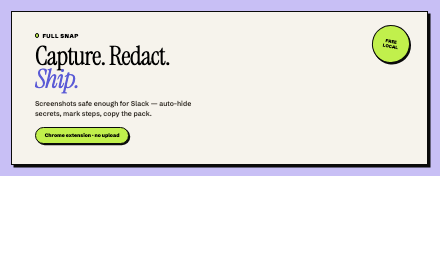
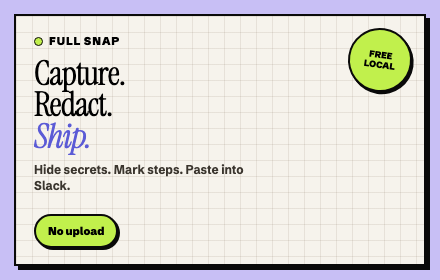
Fix small promo and OG assets with native-size layouts.
Stop scaling marquees into 440x280 (empty whitespace). Dedicated promo-small and OG frames fill the canvas.

Changed region(s): [[0.0, 0.0286, 1.0, 1.0]]

diff --git a/store-assets/src/promo-small.html b/store-assets/src/promo-small.html
@@ -1,0 +1,46 @@
+<!doctype html>
+<html><head><meta charset="utf-8">
+<link href="https://fonts.googleapis.com/css2?family=Instrument+Serif:ital@0;1&family=Schibsted+Grotesk:wght@700;800;900&display=swap" rel="stylesheet">
+<style>
+  *{margin:0;padding:0;box-sizing:border-box}
+  html,body{width:440px;height:280px;overflow:hidden;font-family:"Schibsted Grotesk",system-ui,sans-serif}
+  .wrap{
+    width:440px;height:280px;background:#c8bff5;padding:14px;
+    display:flex;align-items:stretch;justify-content:center;
+  }
+  .card{
+    flex:1;background:#f6f3ec;
+    background-image:
+      linear-gradient(to right,rgba(120,100,80,.12) 1px,transparent 1px),
+      linear-gradient(to bottom,rgba(120,100,80,.12) 1px,transparent 1px);
+    background-size:16px 16px;
+    border:2px solid #0a0a0a;box-shadow:4px 4px 0 #0a0a0a;
+    padding:18px 18px 16px;position:relative;display:flex;flex-direction:column;
+  }
+  .logo{font-size:11px;font-weight:900;letter-spacing:.08em;display:flex;align-items:center;gap:6px;margin-bottom:10px}
+  .logo i{width:9px;height:9px;border-radius:50%;background:#c1f04c;border:1.5px solid #0a0a0a;display:block}
+  h1{font-family:"Instrument Serif",Georgia,serif;font-weight:400;font-size:34px;line-height:.92;letter-spacing:-.03em}
+  h1 em{font-style:italic;color:#5b5bd6}
+  p{margin-top:10px;font-size:12px;font-weight:600;color:#3a352e;line-height:1.35;max-width:240px}
+  .pill{
+    margin-top:auto;align-self:flex-start;background:#c1f04c;border:2px solid #0a0a0a;
+    border-radius:999px;padding:8px 12px;font-weight:900;font-size:11px;box-shadow:2px 2px 0 #0a0a0a;
+  }
+  .badge{
+    position:absolute;top:12px;right:12px;width:64px;height:64px;border-radius:50%;
+    background:#c1f04c;border:2px solid #0a0a0a;box-shadow:2px 2px 0 #0a0a0a;
+    display:grid;place-items:center;text-align:center;font-weight:900;font-size:9px;
+    line-height:1.15;transform:rotate(8deg);
+  }
+</style></head>
+<body>
+<div class="wrap">
+  <div class="card">
+    <div class="badge">FREE<br>LOCAL</div>
+    <div class="logo"><i></i>FULL SNAP</div>
+    <h1>Capture.<br>Redact.<br><em>Ship.</em></h1>
+    <p>Hide secrets. Mark steps. Paste into Slack.</p>
+    <div class="pill">No upload</div>
+  </div>
+</div>
+</body></html>